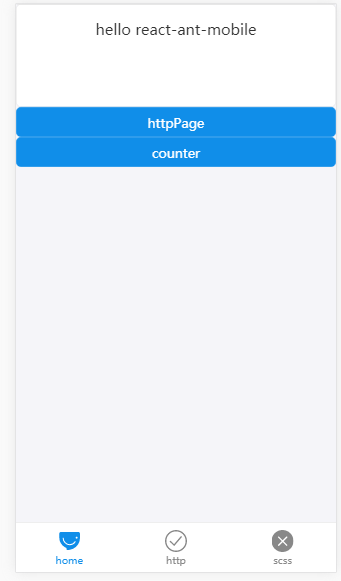
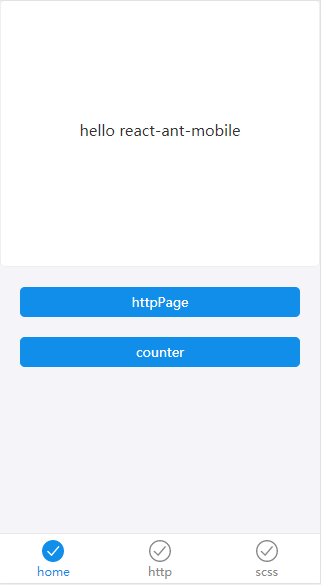
update decorators

diff --git a/pages/http.js b/pages/http.js
@@ -7,9 +7,22 @@ import { initStore } from '../store'
 import * as httpAction from '../actions/http'
 import Layout from '../components/Layout'
 import MenuBar from '../components/MenuBar'
+import { ReduxIni } from '../decorators'
 
-class Http extends Component {
-  static getInitialProps({ req, isServer}) {
+function mapStateToProps(state) {
+  return {
+    user: state.http.user,
+  };
+}
+const mapDispatchToProps = (dispatch) => {
+  return {
+    login: bindActionCreators(httpAction.login, dispatch),
+  }
+}
+
+@ReduxIni(mapStateToProps, mapDispatchToProps)
+export default class Http extends Component {
+  static getInitialProps({ req, isServer }) {
     const language = req ? req.headers['accept-language'] : navigator.language
     return { language, isServer }
   }
@@ -33,7 +46,7 @@ class Http extends Component {
     }
   }
   login = () => {
-    const {name, password} = this.state;
+    const { name, password } = this.state;
     if (name && password) {
       this.setState({ loading: true });
       this.props.login(name, password);
@@ -48,15 +61,15 @@ class Http extends Component {
     }
   }
   render() {
-    const { language, url: { pathname }} = this.props
-    const {name, password, loading} = this.state;
+    const { language, url: { pathname } } = this.props
+    const { name, password, loading } = this.state;
     return (
       <Layout language={language}>
         <MenuBar
           pathname={pathname}
-          >
+        >
           <div >
-            <WingBlank>
+            <WingBlank style={{ margin: '15px' }}>
               <div style={{ display: 'inline-block', width: '30%' }}>userName:</div>
               <div style={{ display: 'inline-block', width: '70%' }} ><InputItem type="text" value={name} onChange={(e) => this.upDate(e, 'name')} /></div>
             </WingBlank>
@@ -65,21 +78,9 @@ class Http extends Component {
               <div style={{ display: 'inline-block', width: '30%' }}>passWord:</div>
               <div style={{ display: 'inline-block', width: '70%' }} ><InputItem type="password" value={password} onChange={(e) => this.upDate(e, 'password')} /></div>
             </WingBlank>
-            <Button type="primary" loading={loading} onClick={this.login}>login</Button></div>
+            <Button style={{ margin: '20px' }} type="primary" size="small" loading={loading} onClick={this.login}>login</Button></div>
         </MenuBar>
       </Layout>
     )
   }
 }
-function mapStateToProps(state) {
-  return {
-    user: state.http.user,
-  };
-}
-const mapDispatchToProps = (dispatch) => {
-  return {
-    login: bindActionCreators(httpAction.login, dispatch),
-  }
-}
-
-export default withRedux(initStore, mapStateToProps, mapDispatchToProps)(Http)

diff --git a/pages/home.js b/pages/home.js
@@ -11,7 +11,7 @@ import withRedux from 'next-redux-wrapper'
 import { initStore } from '../store'
 import * as homeAction from '../actions/home'
 export default class Home extends Component {
-  static getInitialProps({ req, isServer}) {
+  static getInitialProps({ req, isServer }) {
     const language = req ? req.headers['accept-language'] : navigator.language
     return {
       language, isServer
@@ -48,20 +48,20 @@ export default class Home extends Component {
     Router.push('/counter');
   }
   render() {
-    const {language, url: { pathname }} = this.props
-    const {number} = this.state;
+    const { language, url: { pathname } } = this.props
+    const { number } = this.state;
     return (
       <Layout language={language}>
         <MenuBar
           pathname={pathname}
-          >
-          <Card>
+        >
+          <Card style={{ height: '50%' }}>
             <Card.Body>
-              <div style={{ textAlign: 'center' }}>hello react-ant-mobile</div>
+              <div style={{ textAlign: 'center', width: '100%', position: 'absolute', left: '50%', top: '50%', transform: 'translate(-50%,-50%)' }}>hello react-ant-mobile</div>
             </Card.Body>
           </Card>
-          <Button type="primary" size="small" onClick={this.http} >httpPage</Button>
-          <Button type="primary" size="small" onClick={this.counter} >counter</Button>
+          <Button style={{ margin: '20px' }} type="primary" size="small" onClick={this.http} >httpPage</Button>
+          <Button style={{ margin: '20px' }} type="primary" size="small" onClick={this.counter} >counter</Button>
         </MenuBar>
       </Layout>
     )

diff --git a/pages/counter.js b/pages/counter.js
@@ -9,7 +9,7 @@ import withRedux from 'next-redux-wrapper'
 import { initStore } from '../store'
 import * as homeAction from '../actions/home'
 class Counter extends Component {
-  static getInitialProps({ req, isServer}) {
+  static getInitialProps({ req, isServer }) {
 
     return {
       isServer
@@ -43,8 +43,8 @@ class Counter extends Component {
     Router.push('/http');
   }
   render() {
-    const {language, url: { pathname }} = this.props
-    const {number} = this.state;
+    const { language, url: { pathname } } = this.props
+    const { number } = this.state;
     return (
       <div>
         <Card>
@@ -57,7 +57,7 @@ class Counter extends Component {
             </Flex>
           </Card.Body>
         </Card>
-        <Button type="primary" size="small" onClick={this.http} >httpPage</Button>
+        <Button type="primary" size="small" style={{ margin: '10px' }} onClick={this.http} >httpPage</Button>
       </div>
     )
   }

diff --git a/decorators/ReduxIni.js b/decorators/ReduxIni.js
@@ -1,0 +1,5 @@
+import React, { Component } from 'react';
+import withRedux from 'next-redux-wrapper'
+import { initStore } from '../store'
+
+export default (mapStateToProps, mapDispatchToProps) => Compt => withRedux(initStore, mapStateToProps, mapDispatchToProps)(Compt)

diff --git a/decorators/index.js b/decorators/index.js
@@ -1,0 +1,1 @@
+export { default as ReduxIni } from './ReduxIni'
